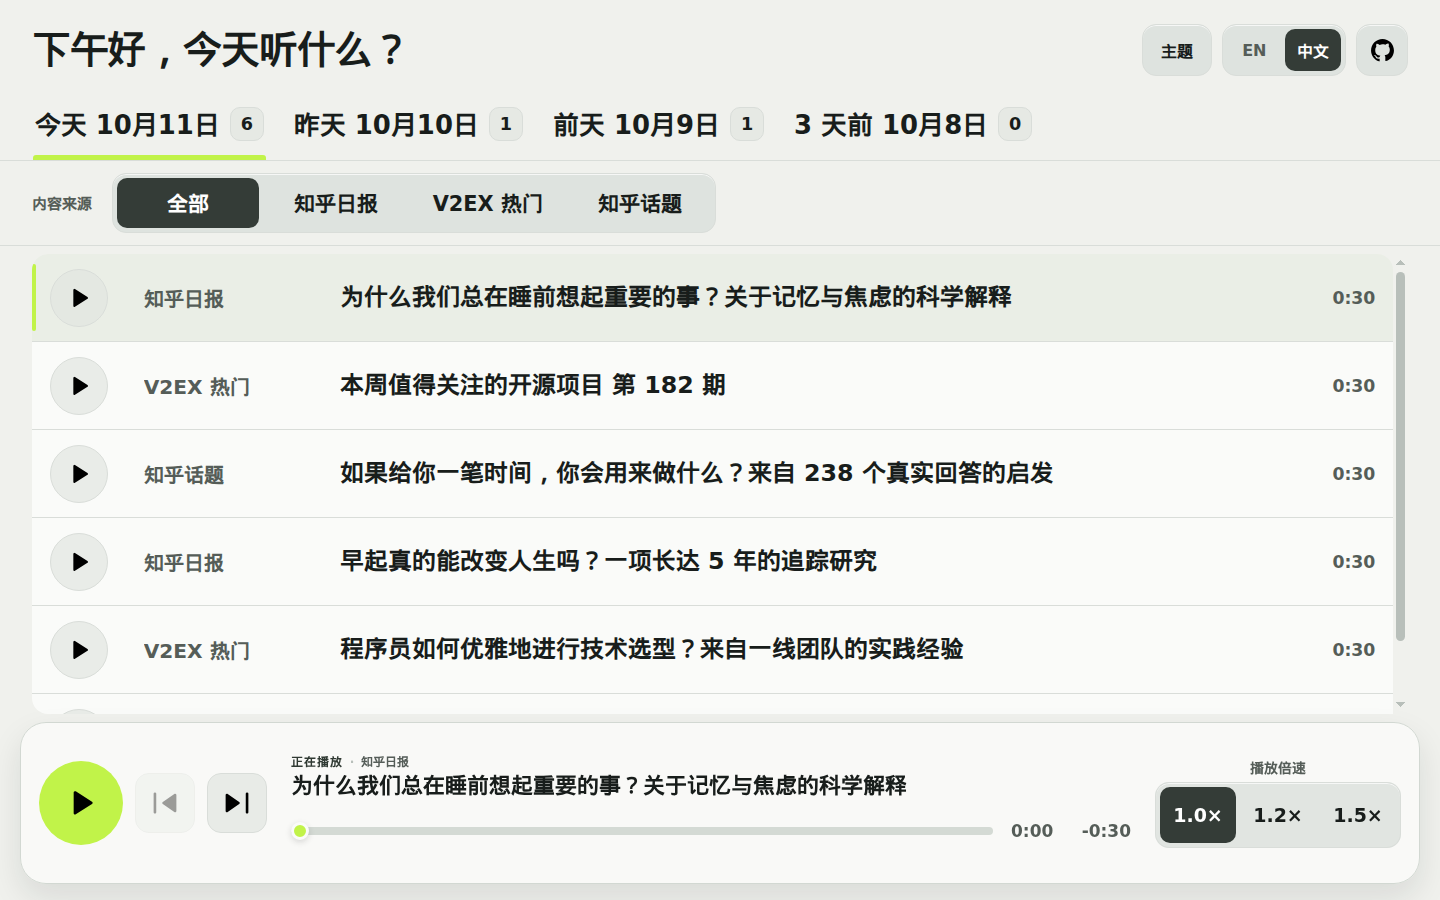
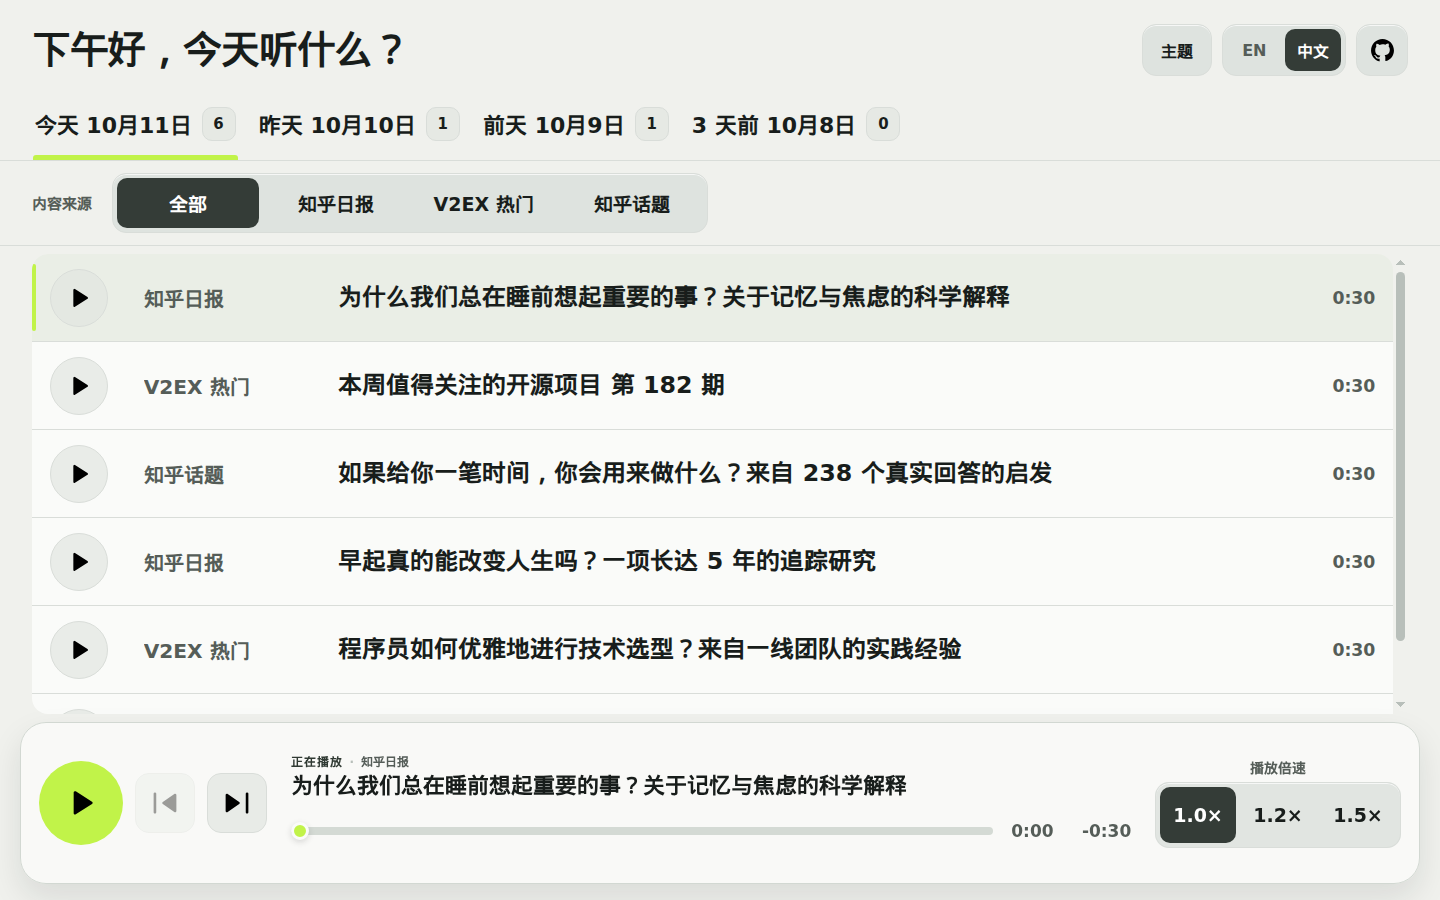
fix(ui): smooth resizing and show dates when space permits

diff --git a/web/app.css b/web/app.css
@@ -17,9 +17,9 @@
   --focus: #0f766e;
   --glass-border: rgb(157 200 241 / 58%);
   --blue-icon-filter: invert(55%) sepia(78%) saturate(2636%) hue-rotate(196deg) brightness(100%) contrast(95%);
-  --player-height: 186px;
+  --player-height: clamp(170px, 13vw, 186px);
   --section-gap: 8px;
-  --content-padding: clamp(20px, 2.2vw, 36px);
+  --content-padding: clamp(14px, 2.2vw, 36px);
   background: var(--page);
   color: var(--navy);
   font-synthesis: none;
@@ -39,7 +39,7 @@ body {
 }
 
 body {
-  min-width: 720px;
+  min-width: 0;
   background:
     radial-gradient(circle at 86% -10%, rgb(155 226 255 / 32%), transparent 34%),
     radial-gradient(circle at 4% 96%, rgb(178 212 255 / 24%), transparent 30%),
@@ -198,7 +198,8 @@ input:focus-visible {
 }
 
 .page-header {
-  padding: 24px var(--content-padding) 0;
+  min-width: 0;
+  padding: clamp(18px, 1.67vw, 24px) var(--content-padding) 0;
   border-bottom: 1px solid var(--line);
   background: rgb(255 255 255 / 70%);
   box-shadow: 0 10px 36px rgb(59 130 246 / 4%);
@@ -218,7 +219,7 @@ input:focus-visible {
   align-items: center;
   justify-content: space-between;
   gap: 24px;
-  margin-bottom: 18px;
+  margin-bottom: clamp(14px, 1.25vw, 18px);
 }
 
 .header-actions {
@@ -298,16 +299,23 @@ input:focus-visible {
 .date-tabs {
   display: flex;
   align-items: stretch;
-  gap: clamp(12px, 2vw, 24px);
+  min-width: 0;
+  gap: clamp(6px, 1.2vw, 18px);
   min-height: 66px;
   border-bottom: 0;
 }
 
 .date-relative-compact { display: none; }
 
+.date-tabs[data-density="compact"] .date-month-day,
+.date-tabs[data-density="short"] .date-month-day,
+.date-tabs[data-density="short"] .date-relative-label { display: none; }
+.date-tabs[data-density="short"] .date-relative-compact { display: inline; }
+
 .date-tab {
   position: relative;
   display: flex;
+  flex: 0 0 auto;
   align-items: center;
   justify-content: flex-start;
   gap: 10px;
@@ -319,7 +327,7 @@ input:focus-visible {
   background: transparent;
   color: var(--navy);
   cursor: pointer;
-  font-size: clamp(20px, 1.8vw, 27px);
+  font-size: 22px;
   font-weight: 600;
   white-space: nowrap;
 }
@@ -371,7 +379,8 @@ input:focus-visible {
 .source-filter-section {
   display: flex;
   align-items: center;
-  gap: 20px;
+  min-width: 0;
+  gap: clamp(8px, 1.4vw, 20px);
   padding: 12px var(--content-padding);
   border-bottom: 1px solid var(--line);
   background: rgb(255 255 255 / 54%);
@@ -383,10 +392,13 @@ input:focus-visible {
   color: var(--muted);
   font-size: 15px;
   font-weight: 600;
+  white-space: nowrap;
 }
 
 .source-filters {
   display: flex;
+  flex: 0 1 auto;
+  width: max-content;
   min-width: 0;
   gap: 6px;
   padding: 4px;
@@ -412,7 +424,7 @@ input:focus-visible {
   background: transparent;
   color: var(--navy);
   cursor: pointer;
-  font-size: clamp(17px, 1.45vw, 22px);
+  font-size: 19px;
   font-weight: 600;
   white-space: nowrap;
 }
@@ -448,11 +460,11 @@ input:focus-visible {
 .episode-row {
   position: relative;
   display: grid;
-  grid-template-columns: 72px minmax(130px, 174px) minmax(0, 1fr) 108px;
+  grid-template-columns: clamp(60px, 5vw, 72px) clamp(110px, 12vw, 174px) minmax(0, 1fr) clamp(80px, 7.5vw, 108px);
   align-items: center;
-  gap: 22px;
+  gap: clamp(12px, 1.55vw, 22px);
   min-height: 88px;
-  padding: 8px 18px;
+  padding: 8px clamp(10px, 1.25vw, 18px);
   margin-bottom: 0;
   border: 0;
   border-bottom: 1px solid var(--line);
@@ -506,8 +518,8 @@ input:focus-visible {
 }
 
 .episode-play-button {
-  width: 58px;
-  height: 58px;
+  width: clamp(54px, 4.03vw, 58px);
+  height: clamp(54px, 4.03vw, 58px);
   border: 1px solid rgb(176 209 241 / 70%);
   border-radius: 50%;
   background: rgb(255 255 255 / 70%);
@@ -593,8 +605,9 @@ input:focus-visible {
   display: grid;
   grid-template-columns: auto minmax(0, 1fr) auto;
   align-items: center;
-  gap: 24px;
-  margin: var(--section-gap) 20px 16px;
+  min-width: 0;
+  gap: clamp(12px, 1.65vw, 24px);
+  margin: var(--section-gap) clamp(12px, 1.4vw, 20px) 16px;
   padding: 14px 18px;
   border: 1px solid var(--glass-border);
   border-radius: 20px;
@@ -619,8 +632,8 @@ input:focus-visible {
 }
 
 .icon-button-primary {
-  width: 78px;
-  height: 78px;
+  width: clamp(74px, 5.42vw, 78px);
+  height: clamp(74px, 5.42vw, 78px);
   border-radius: 50%;
   border: 1px solid rgb(255 255 255 / 58%);
   background: linear-gradient(145deg, #67b9ff, var(--blue));
@@ -642,8 +655,8 @@ input:focus-visible {
 }
 
 .icon-button-secondary {
-  width: 58px;
-  height: 58px;
+  width: clamp(54px, 4.03vw, 58px);
+  height: clamp(54px, 4.03vw, 58px);
   border: 1px solid rgb(181 210 238 / 68%);
   border-radius: 14px;
   background: rgb(255 255 255 / 62%);
@@ -804,9 +817,9 @@ input:focus-visible {
 }
 
 .speed-control button {
-  min-width: 76px;
-  min-height: 56px;
-  padding: 8px 12px;
+  min-width: clamp(56px, 5.28vw, 76px);
+  min-height: clamp(54px, 3.9vw, 56px);
+  padding: 8px clamp(8px, .83vw, 12px);
   border: 0;
   border-radius: 10px;
   background: transparent;
@@ -838,80 +851,6 @@ input:focus-visible {
   clip: rect(0, 0, 0, 0);
   white-space: nowrap;
   border: 0;
-}
-
-@media (max-width: 1100px) {
-  :root {
-    --player-height: 170px;
-    --content-padding: 22px;
-  }
-
-  .page-header {
-    padding-top: 18px;
-  }
-
-  .header-heading-row {
-    margin-bottom: 14px;
-  }
-
-  .date-tab {
-    padding-inline: 0;
-  }
-
-  .source-filter-section {
-    padding-block: 12px 10px;
-  }
-
-  .source-filter {
-    min-width: 140px;
-    min-height: 56px;
-  }
-
-  .episode-row {
-    grid-template-columns: 66px 124px minmax(0, 1fr) 92px;
-    gap: 18px;
-    min-height: 88px;
-    padding-inline: 10px;
-  }
-
-  .episode-play-button {
-    width: 54px;
-    height: 54px;
-  }
-
-  .player-dock {
-    gap: 18px;
-    margin-inline: 12px;
-  }
-
-  .icon-button-primary {
-    width: 74px;
-    height: 74px;
-  }
-
-  .icon-button-secondary {
-    width: 54px;
-    height: 54px;
-  }
-
-  .speed-control {
-    gap: 8px;
-  }
-
-  .speed-control button {
-    min-width: 64px;
-    min-height: 54px;
-    padding-inline: 10px;
-    font-size: 19px;
-  }
-}
-
-@media (max-width: 1200px) {
-  .date-tabs {
-    gap: 8px;
-  }
-
-  .date-month-day { display: none; }
 }
 
 @media (max-height: 720px) {
@@ -1032,8 +971,6 @@ input:focus-visible {
   }
 
   .date-tabs {
-    display: grid;
-    grid-template-columns: repeat(4, minmax(0, 1fr));
     gap: 6px;
     min-height: 44px;
   }
@@ -1041,9 +978,9 @@ input:focus-visible {
   .date-tab {
     flex-direction: row;
     align-items: center;
-    justify-content: center;
+    justify-content: flex-start;
     gap: 3px;
-    width: 100%;
+    width: auto;
     min-height: 44px;
     height: 44px;
     padding: 5px 0 9px;
@@ -1058,9 +995,6 @@ input:focus-visible {
     text-overflow: ellipsis;
   }
 
-  .date-relative-label { display: none; }
-  .date-relative-compact { display: inline; }
-
   .date-count {
     min-width: 18px;
     height: 20px;
@@ -1070,7 +1004,7 @@ input:focus-visible {
   }
 
   .source-filter-section {
-    display: block;
+    gap: 8px;
     padding: 8px 10px;
   }
 
@@ -1084,11 +1018,10 @@ input:focus-visible {
   }
 
   .source-filter-label {
-    display: none;
+    font-size: 12px;
   }
 
   .source-filters {
-    width: 100%;
     max-width: 100%;
     gap: 4px;
     padding: 3px;
@@ -1270,11 +1203,6 @@ input:focus-visible {
     scroll-behavior: auto !important;
     transition: none !important;
   }
-}
-
-@media (max-width: 700px) and (orientation: landscape) {
-  .date-tabs { display: flex; gap: 12px; }
-  .date-tab { width: auto; justify-content: flex-start; padding-inline: 2px; }
 }
 
 /* The admin route reuses player cards and keeps visibility controls distinct. */

diff --git a/web/app.js b/web/app.js
@@ -185,6 +185,8 @@ const state = {
 };
 
 updateGreeting();
+window.addEventListener("resize", fitDateTabs);
+document.fonts?.ready.then(fitDateTabs);
 window.setInterval(updateGreeting, 60_000);
 document.addEventListener("visibilitychange", () => {
   if (!document.hidden) updateGreeting();
@@ -340,6 +342,16 @@ function renderDateTabs() {
       renderAll();
     });
     elements.dateTabs.append(button);
+  }
+  fitDateTabs();
+}
+
+function fitDateTabs() {
+  if (!elements.dateTabs.children.length || !elements.dateTabs.clientWidth) return;
+  // Keep the full dates until their actual text and counts no longer fit.
+  for (const density of ["full", "compact", "short"]) {
+    elements.dateTabs.dataset.density = density;
+    if (elements.dateTabs.scrollWidth <= elements.dateTabs.clientWidth + 1) break;
   }
 }
 
